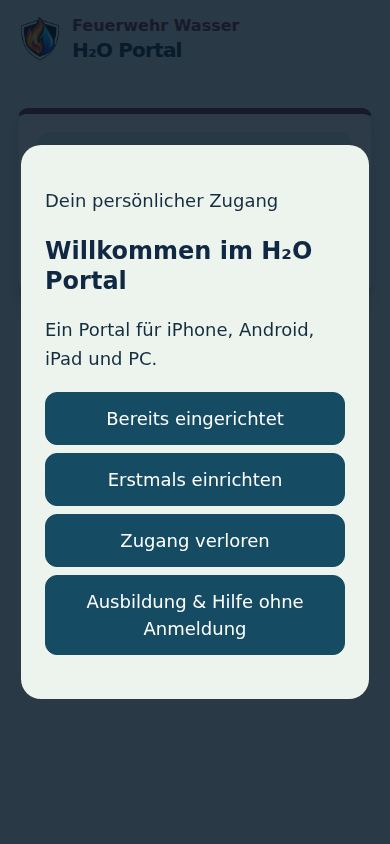
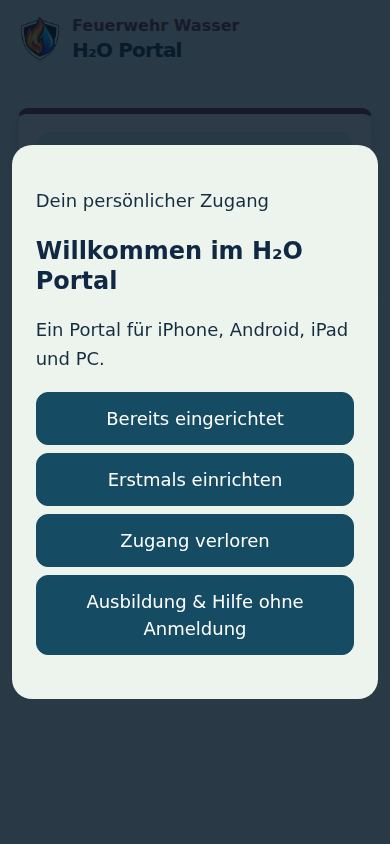
Keep guided entry readable with enlarged text on small phones

diff --git a/css/features/deckel.css b/css/features/deckel.css
@@ -349,11 +349,11 @@ body.h2o-portal .portal-training-page .training-card{background-image:none;borde
 @media(max-width:600px){.radio-illustrations{grid-template-columns:1fr;gap:24px}}
 
 /* Guided first entry keeps the existing identity forms in one focused dialog. */
-.h2o-onboarding{box-sizing:border-box;width:min(94vw,580px);max-height:92dvh;border:0;border-radius:20px;padding:24px;color:#142d40;background:#edf3ed;font-size:18px;line-height:1.5}
+.h2o-onboarding{box-sizing:border-box;width:min(94vw,580px);max-width:94vw;overflow-wrap:anywhere;max-height:92dvh;border:0;border-radius:20px;padding:24px;color:#142d40;background:#edf3ed;font-size:1.125rem;line-height:1.5}
 .h2o-onboarding::backdrop{background:#071927d9}
 .h2o-onboarding h2{font-size:1.5rem;line-height:1.25}
 .h2o-onboarding button,.h2o-onboarding input{box-sizing:border-box;font:inherit;min-height:52px;padding:12px;width:100%;margin:8px 0}
-.h2o-onboarding button{border-radius:12px;background:#164b64;color:#fff;border:1px solid #164b64;white-space:normal}
+.h2o-onboarding button{min-width:0;overflow-wrap:anywhere;border-radius:12px;background:#164b64;color:#fff;border:1px solid #164b64;white-space:normal}
 .h2o-onboarding nav{display:flex;gap:12px;margin-top:20px}
 .h2o-onboarding summary{font-weight:700;padding:12px 0}
 .h2o-onboarding img,#installIllustration{max-width:100%;height:auto}

diff --git a/docs/H2O-PLATTFORM-KALENDER-SICHERHEIT.md b/docs/H2O-PLATTFORM-KALENDER-SICHERHEIT.md
@@ -109,7 +109,8 @@ Auch `tests/help-guide-browser.cjs`, `tests/deckel-startup-browser.cjs` und
 0 Fehler. Hilfe-, Bundle- und Release-Konsistenz lokal erfolgreich. CI-Status siehe PR.
 
 Chromium-Ansichten: Anmeldung/Passkey bei 320 px, Passwort bei 390 px und Layout 320/390/768 px;
-Kalenderverwaltung 320/390/412/768/1024 px. Browseremulation ersetzt **keine echten Geräte**.
+Kalenderverwaltung 320/390/412/768/1024 px. Neuer Einrichtungsdialog zusätzlich
+bei 320/390/768 px mit 100 % und 200 % Schriftgröße ohne seitlichen Überlauf geprüft. Browseremulation ersetzt **keine echten Geräte**.
 Nicht geprüft: reale Android-WebAPK-Installation/Play Protect, iOS Home-Bildschirm und
 Passkey-Synchronisation, echte Push-Zustellung, reale Microsoft-Konten, Google OAuth,
 Kalenderfreigaben, persönliche Einladungen und Kalenderantworten. Diese Abnahme fehlt.
